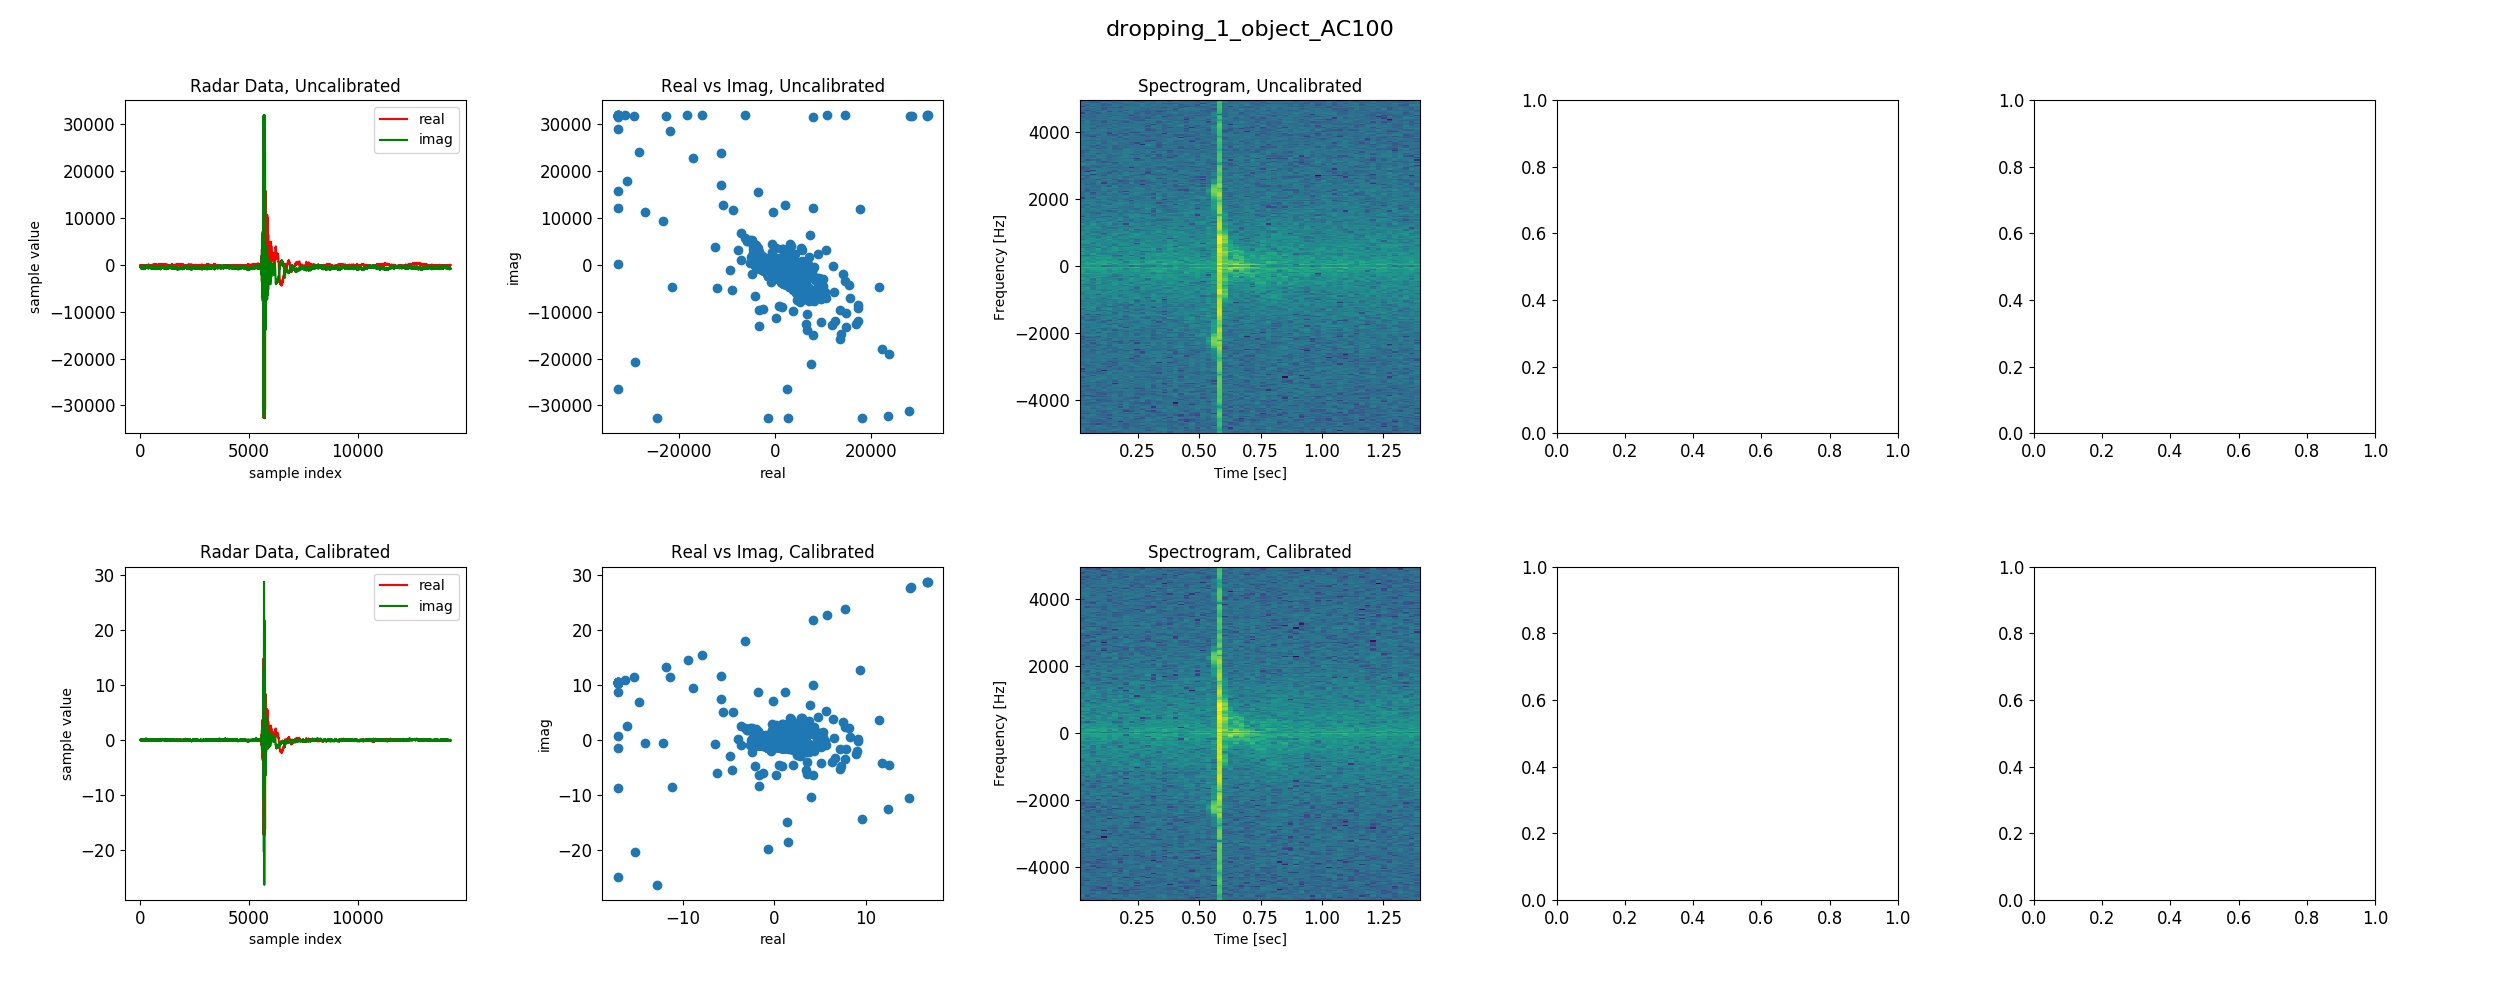
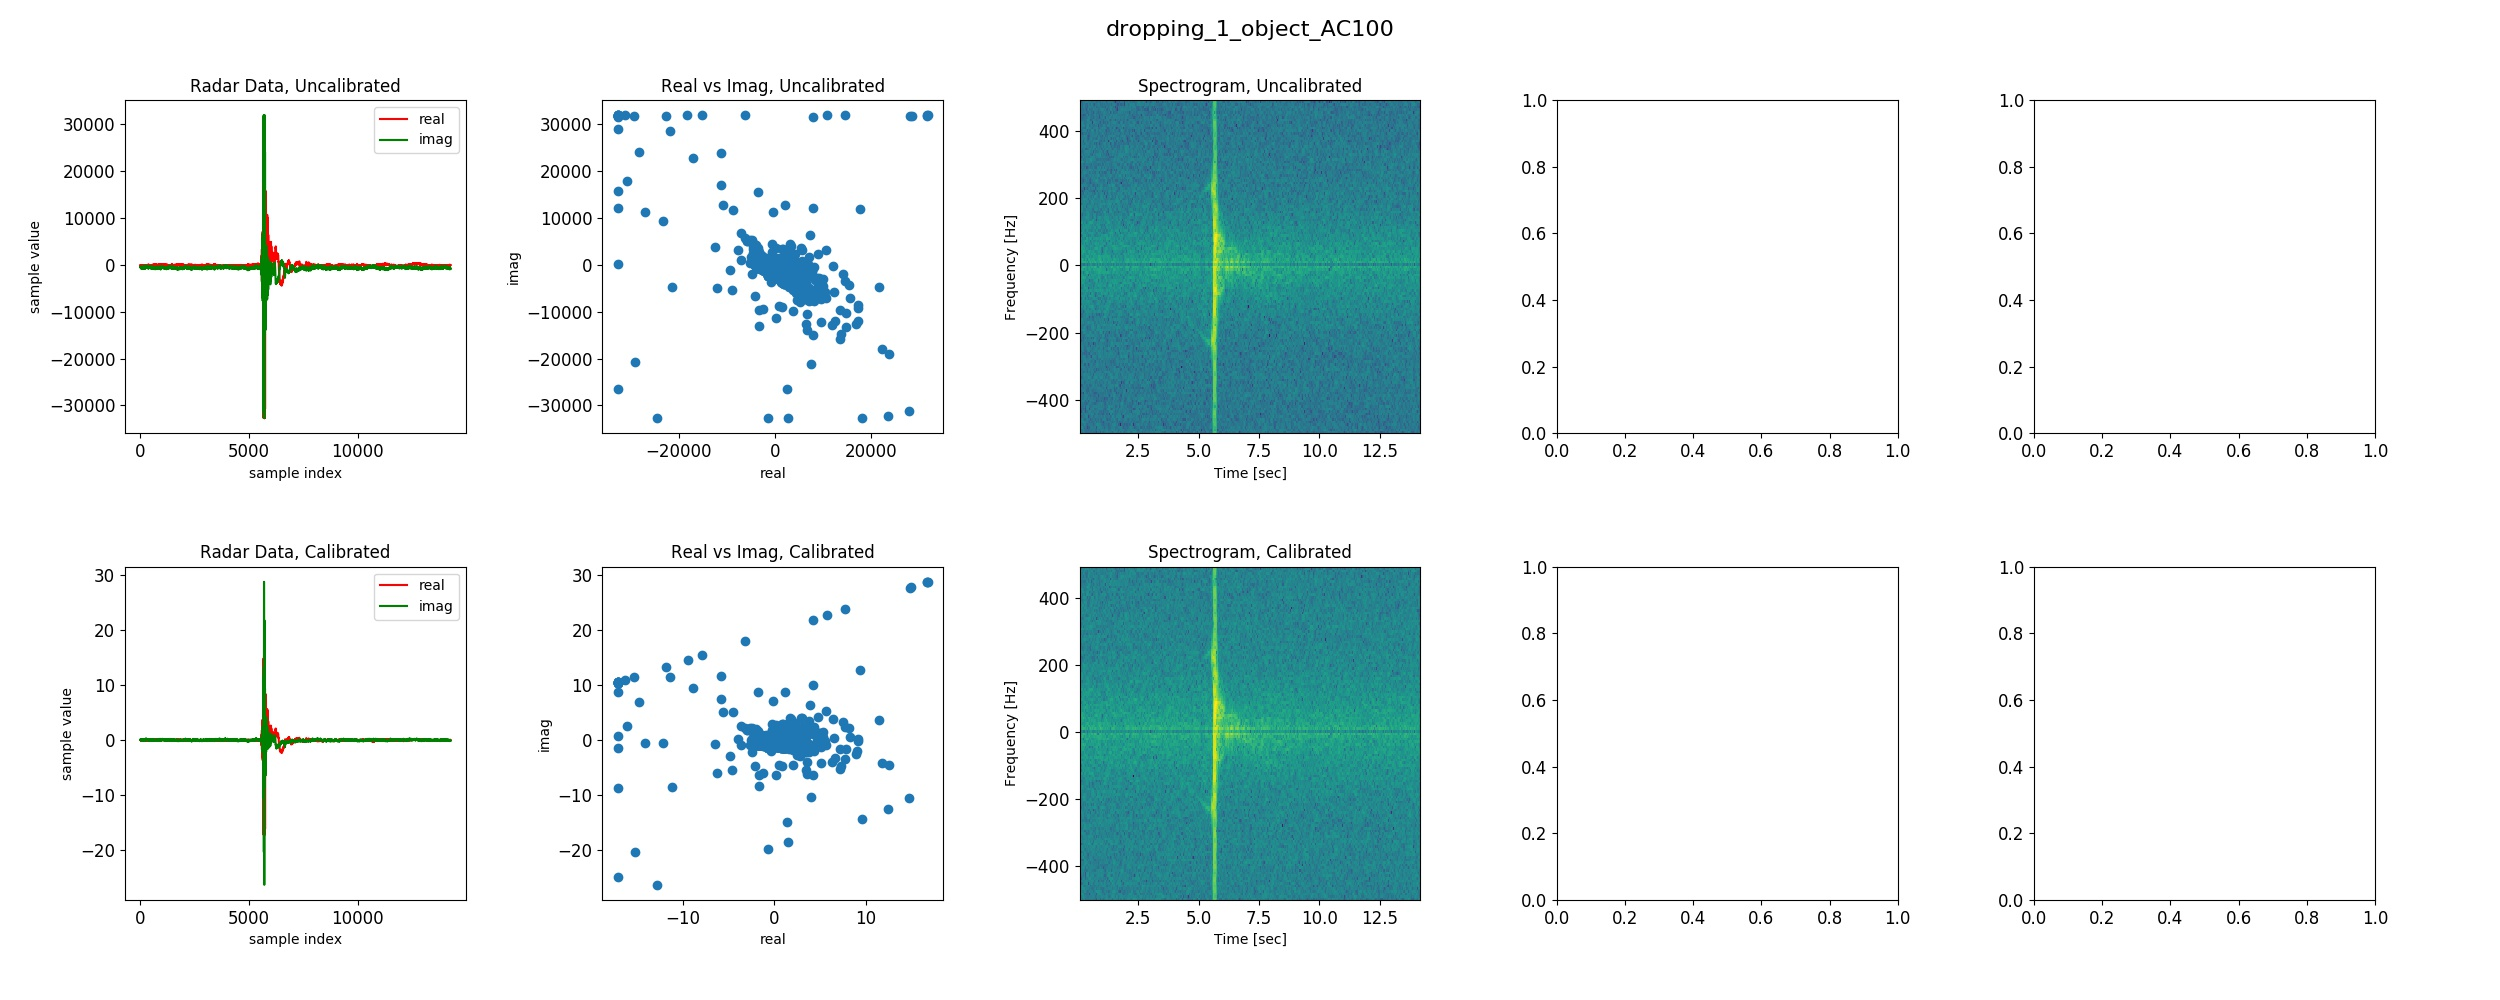
results

diff --git a/analysis.py b/analysis.py
@@ -32,44 +32,51 @@ plt.rc("legend", fontsize=SMALL_SIZE)  # legend fontsize
 
 
 # # Load data from file
+fs = 1e3  # the assumed sample frequency of all data
 data_dir = osp.join(os.getcwd(), "HDR_audio_24GHz_complex_radar")
-data = dict()  # a dictionary containing different gains for HDR measurement
+data_dict = dict()  # a dictionary containing different gains for HDR measurement
 
-# file_name = "roomtone.txt"
-file_name = "dropping_1_object.txt"
-# file_name = "dropping_2_objects.txt"
-# file_name = "dropping_digikey_resistor_bags.txt"
-# file_name = "drop_resistor_tape.txt"
-csvdata = np.empty((8, 0))
-with open(osp.join(data_dir, file_name), newline="") as f:
-    reader = csv.reader(f, delimiter="\t")
-    for row in reader:
-        row = np.array([float(r) for r in row[:8]]).reshape(-1, 1)
-        csvdata = np.append(csvdata, row, axis=1)  # data of shape [8, number of samples]
-data["dropping_1_object_DC10"] = np.stack((csvdata[0, ...], csvdata[0 + 4, ...]))
-data["dropping_1_object_AC100"] = np.stack((csvdata[1, ...], csvdata[1 + 4, ...]))
-data["dropping_1_object_AC1000"] = np.stack((csvdata[2, ...], csvdata[2 + 4, ...]))
-data["dropping_1_object_AC10000"] = np.stack((csvdata[3, ...], csvdata[3 + 4, ...]))
-
-
+for file_name in ["dropping_1_object"]:
+    csvdata = np.empty((8, 0))
+    with open(osp.join(data_dir, file_name + ".txt"), newline="") as f:
+        reader = csv.reader(f, delimiter="\t")
+        for row in reader:
+            row = np.array([float(r) for r in row[:8]]).reshape(-1, 1)
+            csvdata = np.append(csvdata, row, axis=1)  # data of shape [8, number of samples]
+    data_dict[file_name + "_DC10"] = np.stack((csvdata[0, ...], csvdata[0 + 4, ...]))
+    data_dict[file_name + "_AC100"] = np.stack((csvdata[1, ...], csvdata[1 + 4, ...]))
+    data_dict[file_name + "_AC1000"] = np.stack((csvdata[2, ...], csvdata[2 + 4, ...]))
+    data_dict[file_name + "_AC10000"] = np.stack((csvdata[3, ...], csvdata[3 + 4, ...]))
+    # ###
+    # # normalize data
+    # for k, data in data_dict.items():
+    #     mean = data.mean(axis=1, keepdims=True)
+    #     data = data - mean
+    #     # center the data
+    #     cov = np.cov(data)
+    #     L = np.linalg.cholesky(cov)
+    #     data_dict[k] = np.linalg.inv(L) @ data
+    # ###
+    data_dict[file_name + "_AC10000"] = np.mean([k for k in data_dict.values()], axis=0)
 
 # Generate some arbitrary data
-fs = 1e4
 N = 1e4
 time = np.arange(N) / float(fs)
-sig = transforms.q_chirplet(time, 0.5, 250, 500, 0.1)#  + transforms.q_chirplet(time, 0.5, -250, -500, 0.1)
+sig = transforms.q_chirplet(time, 0.5, 250, 500, 0.1)  #  + transforms.q_chirplet(time, 0.5, -250, -500, 0.1)
 # Select data of format (2, n) real and imaginary
-data["Signal: Chirplet tc=0.5, fc=250, c=500, delta_t=0.1"] = np.stack((sig.real, sig.imag))
+data_dict["Signal: Chirplet tc=0.5, fc=250, c=500, delta_t=0.1"] = np.stack((sig.real, sig.imag))
 
 
 # Working on data
-data_name = "Signal: Chirplet tc=0.5, fc=250, c=500, delta_t=0.1"
-# data_name = "dropping_1_object_AC100"
-data = data[data_name]
+# data_name = "Signal: Chirplet tc=0.5, fc=250, c=500, delta_t=0.1"
+data_name = "dropping_1_object_AC10000"
+data = data_dict[data_name]
+# data = data[:, 4500:5500]
+time = np.arange(data.shape[1]) / float(fs)
 
 
 nrow = 2
-ncoln = 5
+ncoln = 3
 fig, axs = plt.subplots(nrow, ncoln)
 fig.suptitle(data_name, fontsize=BIGGER_SIZE)
 fig.set_size_inches(ncoln * 5, nrow * 5)
@@ -91,70 +98,76 @@ ax.set_xlabel("real")
 ax.set_ylabel("imag")
 ax.set_title("Real vs Imag, Uncalibrated")
 
-f, t, Sxx = signal.spectrogram(data[0, ...] + 1j * data[1, ...], return_onesided=False, fs=fs)
+
+f, t, Sxx = signal.spectrogram(
+    data[0, ...] + 1j * data[1, ...], return_onesided=False, fs=fs, window=("tukey", 0.25), nperseg=128, noverlap=112,
+)
 ax = axs[0][2]
-ax.pcolormesh(t, fftshift(f), np.log(fftshift(Sxx, axes=0)))
+ax.pcolormesh(t, fftshift(f), np.log10(fftshift(Sxx, axes=0)))
 ax.set_ylabel("Frequency [Hz]")
 ax.set_xlabel("Time [sec]")
 ax.set_title("Spectrogram, Uncalibrated")
 
-# generate chirp
-sample = 200
+# # generate chirp
+# sample = 200
+# xy_range = 10000
 
-fb = np.linspace(-1000, 1000, sample)
-fe = np.linspace(-1000, 1000, sample)
-fb, fe = np.meshgrid(fb, fe)
-window = transforms.q_chirplet_fbe(time, 0.5, fb, fe, 0.1)
-res = np.inner(np.conj(window), data[0] + 1j * data[1])
-ax = axs[0][3]
-ax.contour(fb, fe, np.absolute(res))
-ax.set_xlabel("f begin")
-ax.set_ylabel("f end")
-ax.set_title("Freq Begin vs Freq End, Uncalibrated")
+# fb = np.linspace(-xy_range, xy_range, sample)
+# fe = np.linspace(-xy_range, xy_range, sample)
+# fb, fe = np.meshgrid(fb, fe)
+# window = transforms.q_chirplet_fbe(time, 0.5, fb, fe, 0.1)
+# res = np.inner(np.conj(window), data[0] + 1j * data[1])
+# ax = axs[0][3]
+# ax.contour(fb, fe, np.absolute(res))
+# ax.set_xlabel("f begin")
+# ax.set_ylabel("f end")
+# ax.set_title("Freq Begin vs Freq End, Uncalibrated")
 
-fc = np.linspace(-1000, 1000, sample)
-c = np.linspace(-1000, 1000, sample)
-fc, c = np.meshgrid(fc, c)
-window = transforms.q_chirplet(time, 0.5, fc, c, 0.1)
-res = np.inner(np.conj(window), data[0] + 1j * data[1])
-ax = axs[0][4]
-ax.contour(fc, c, np.absolute(res))
-ax.set_xlabel("center freq")
-ax.set_ylabel("slope")
-ax.set_title("Center Freq vs Slope, Uncalibrated")
-
-
-# # Step 1: calibrate data
-# # subtract mean
-# mean = data.mean(axis=1, keepdims=True)
-# data = data - mean
-# # center the data
-# cov = np.cov(data)
-# L = np.linalg.cholesky(cov)
-# data = np.linalg.inv(L) @ data
+# fc = np.linspace(-xy_range, xy_range, sample)
+# c = np.linspace(-xy_range, xy_range, sample)
+# fc, c = np.meshgrid(fc, c)
+# window = transforms.q_chirplet(time, 0.5, fc, c, 0.1)
+# res = np.inner(np.conj(window), data[0] + 1j * data[1])
+# ax = axs[0][4]
+# ax.contour(fc, c, np.absolute(res))
+# ax.set_xlabel("center freq")
+# ax.set_ylabel("slope")
+# ax.set_title("Center Freq vs Slope, Uncalibrated")
 
 
-# # plot uncalibrated data
-# ax = axs[1][0]
-# ax.plot(data[0, ...], label="real", color="r")
-# ax.plot(data[1, ...], label="imag", color="g")
-# ax.set_xlabel("sample index")
-# ax.set_ylabel("sample value")
-# ax.set_title("Radar Data, Calibrated")
-# ax.legend()
+# Step 1: calibrate data
+# subtract mean
+mean = data.mean(axis=1, keepdims=True)
+data = data - mean
+# center the data
+cov = np.cov(data)
+L = np.linalg.cholesky(cov)
+data = np.linalg.inv(L) @ data
 
-# ax = axs[1][1]
-# ax.scatter(data[0, ...], data[1, ...])
-# ax.set_xlabel("real")
-# ax.set_ylabel("imag")
-# ax.set_title("Real vs Imag, Calibrated")
 
-# f, t, Sxx = signal.spectrogram(data[0, ...] + 1j * data[1, ...], return_onesided=False, fs=fs)
-# ax = axs[1][2]
-# ax.pcolormesh(t, fftshift(f), np.log(fftshift(Sxx, axes=0)))
-# ax.set_ylabel("Frequency [Hz]")
-# ax.set_xlabel("Time [sec]")
-# ax.set_title("Spectrogram, Calibrated")
+# plot uncalibrated data
+ax = axs[1][0]
+ax.plot(data[0, ...], label="real", color="r")
+ax.plot(data[1, ...], label="imag", color="g")
+ax.set_xlabel("sample index")
+ax.set_ylabel("sample value")
+ax.set_title("Radar Data, Calibrated")
+ax.legend()
+
+ax = axs[1][1]
+ax.scatter(data[0, ...], data[1, ...])
+ax.set_xlabel("real")
+ax.set_ylabel("imag")
+ax.set_title("Real vs Imag, Calibrated")
+
+f, t, Sxx = signal.spectrogram(
+    data[0, ...] + 1j * data[1, ...], return_onesided=False, fs=fs, window=("tukey", 0.25), nperseg=128, noverlap=112,
+)
+ax = axs[1][2]
+ax.pcolormesh(t, fftshift(f), np.log(fftshift(Sxx, axes=0)))
+ax.set_ylabel("Frequency [Hz]")
+ax.set_xlabel("Time [sec]")
+ax.set_title("Spectrogram, Calibrated")
 
 plt.savefig(data_name + ".jpg")
 plt.show()
